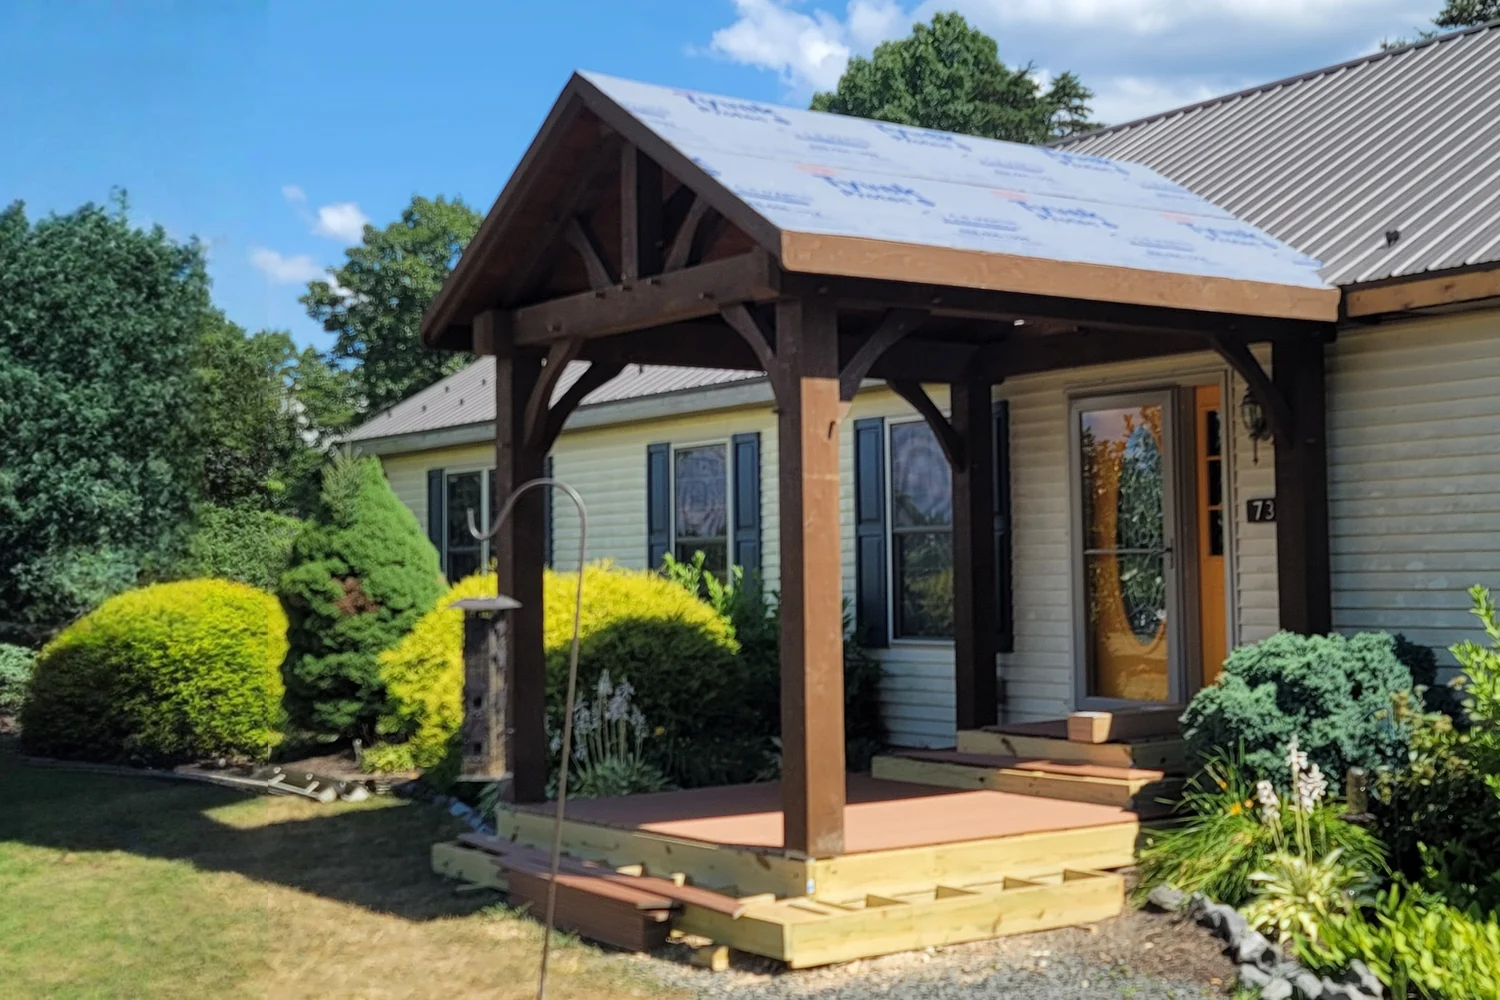
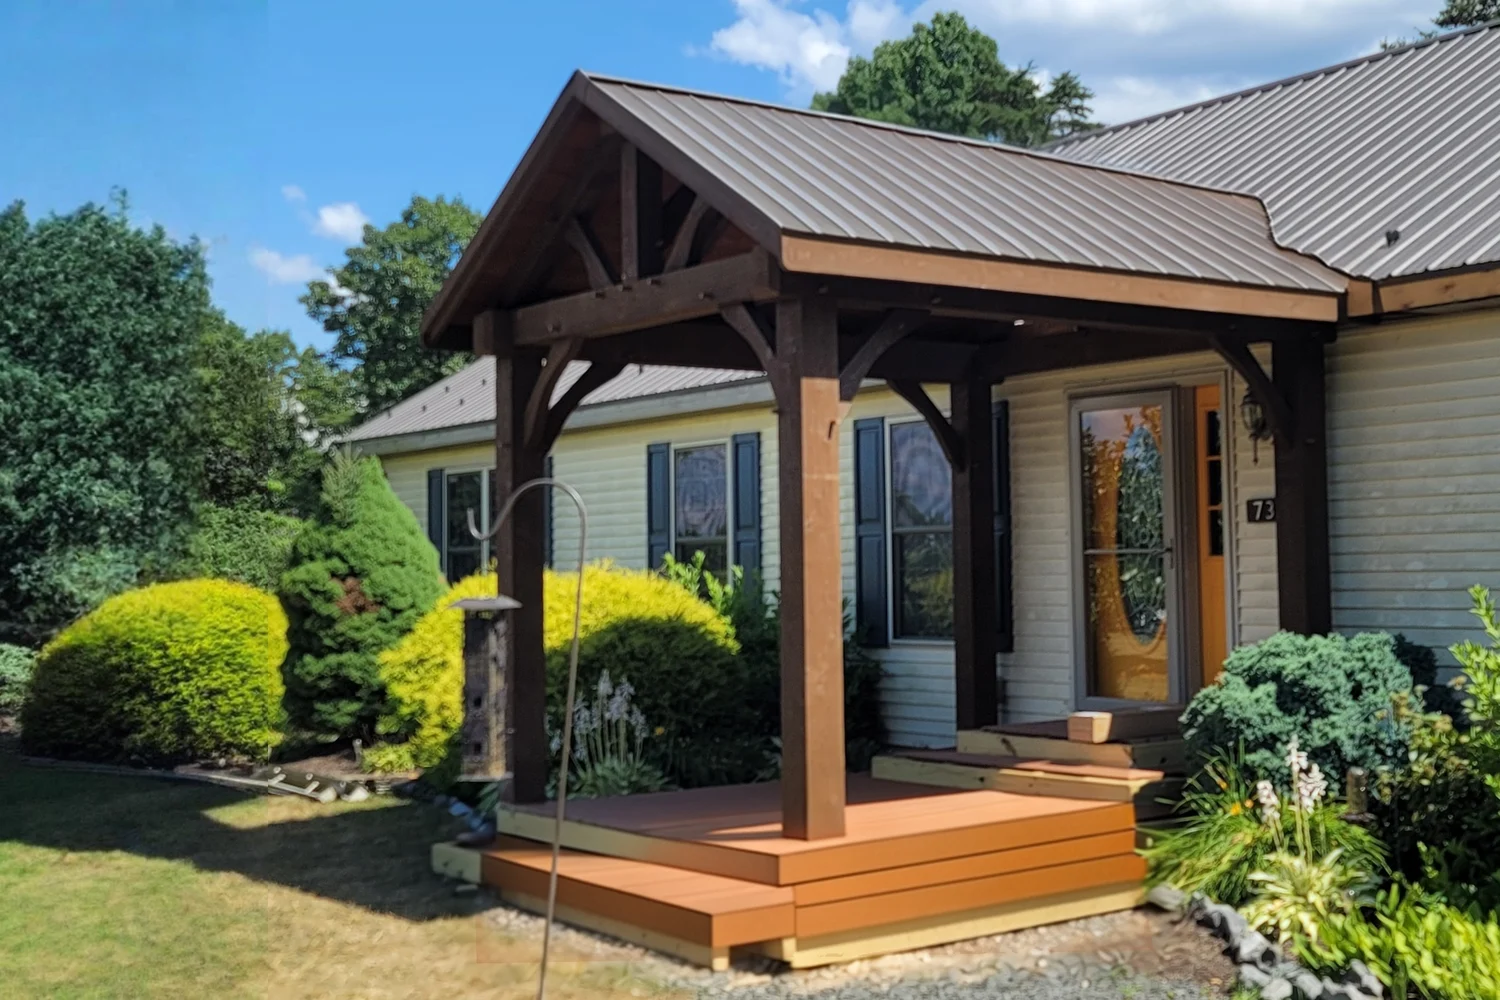
Lauvers hero: porch completed to its real finished state (William's call) - metal roof + composite base
The picked hero frame was mid-build (Tyvek underlayment, raw PT skirt, lumber stacked).
William asked for the finished look. The porch WAS genuinely finished - gallery photos
55-57 document the real finished deck - but no wide finished shot exists, so the Tyvek
plane was genfilled to standing-seam metal matching the house roof in the same frame,
and the raw skirt/steps to the brown composite the real finished photos show. Lumber
pile removed. Four passes, each walked at zoom; timber structure, house and garden are
untouched original pixels. HERO_ALT updated to match.

DEMO-ONLY allowance: generated depiction of real, documented work on a prospect preview
(the same lane as the fleet's AI heroes). Before any go-live: swap for a real finished
photo - ask Ira for one, it exists in someone's phone.

Changed region(s): [[0.3067, 0.775, 0.7667, 0.961], [0.368, 0.062, 0.92, 0.31]]

diff --git a/lauvers-custom-construction/index.html b/lauvers-custom-construction/index.html
@@ -75,7 +75,7 @@
       <source media="(max-width:900px)" srcset="img/hero-phone.jpg?v=1" width="1500" height="1000">
       <source type="image/webp" srcset="img/hero-wide.webp?v=1" width="2600" height="1000">
       <img src="img/hero-wide.jpg?v=1" width="2600" height="1000" fetchpriority="high"
-           alt="A heavy timber-frame porch going up over the front door of a ranch house, fresh decking below and a wide green lawn to the left, under a blue summer sky">
+           alt="A heavy timber-frame porch over the front door of a ranch house, standing-seam metal roof and brown composite deck, garden beds beside it and a wide green lawn to the left under a blue summer sky">
     </picture>
 
     <div class="glass hero__panel">
